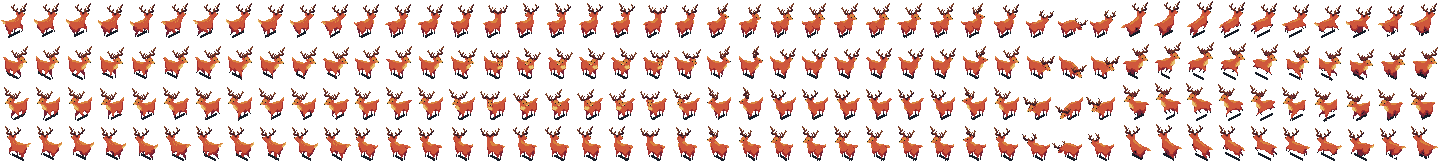
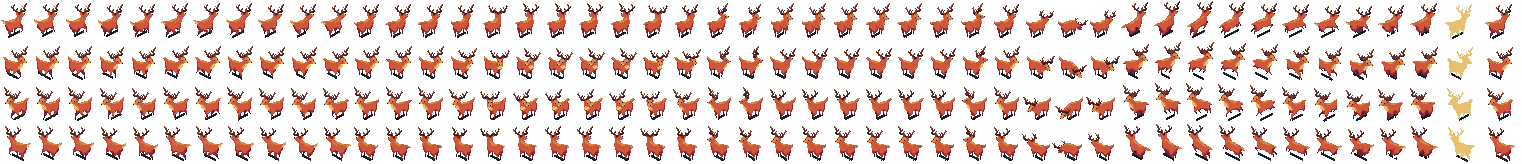
fix on collide behavior

diff --git a/main.js b/main.js
@@ -224,7 +224,6 @@ function randomlyPlaceCritter(a) {
   a.gx = randLandX;
   a.gy = randLandY;
   a.animTimer = 0;
-  a.poseTimer = 0;
   a.redecideCd = 0; // Cd = Cooldown (ticks)
   a.currentDirection = Math.floor(Math.random() * 4) * 2;
   a.frame = 0;
@@ -521,10 +520,7 @@ function updateAllCritters() {
     if (a.redecideCd <= 0) updateCritterAction(a);
 
     a.animTimer++;
-    a.poseTimer++;
     let holdTks = frameDataBySpeciesAndPose[a.species][a.pose].holdTks;
-    let poseLimitTks = frameDataBySpeciesAndPose[a.species][a.pose].limitTks;
-    if (poseLimitTks && a.poseTimer >= poseLimitTks)
       
     if (a.animTimer >= holdTks) updateCritterFrame(a);
 
@@ -582,38 +578,40 @@ function moveAllTogether(movers, statics = []) {
   collidePairs.forEach(pair => {
     // CURRENT: wolf KOs deer on any collide
     // FUTURE: kill only when wolf is in Bite pose and front-on
-    if (pair[0] === -1 || movers[pair[0]].species === movers[pair[1]].species) return;
-    if (movers[pair[1]].species === "deer") {
+    console.log(pair[1])
+    console.log(allColliders[pair[1]]);
+    if (pair[0] === -1 || allColliders[pair[0]].species === allColliders[pair[1]].species) return;
+    if (allColliders[pair[1]].species === "deer") {
       wasKilledBy[pair[1]] = pair[0];
     } else {
       wasKilledBy[pair[0]] = pair[1];
     }
   });
 
-  movers.forEach((mover, idx) => {
-    // for a stationary mover, do nothing
-    if (mover.nextGX === mover.gx && mover.nextGY === mover.gy) return;
+  allColliders.forEach((thing, idx) => {
+    // for a stationary thing, do nothing (??)
+    if (thing.nextGX === thing.gx && thing.nextGY === thing.gy) return;
 
     if (didCollide[idx]) {
       if (idx in wasKilledBy) {
-        startCritterDeath(movers[idx], wasKilledBy[idx]);
+        startCritterDeath(allColliders[idx], wasKilledBy[idx]);
       } else {
-        // this mover's gx and gy do NOT get updated this tick
+        // this thing's gx and gy do NOT get updated this tick
         // and it should decide on a new movement to try for next tick
 
         // TODO: allow a rear-ended collider to continue moving when space in front is open
         // this 'should' already be the behavior since creatures move all together, investigate
-        updateCritterAction(mover);
+        updateCritterAction(thing);
       }
     } else {
-      // this is the ONLY PLACE ANYWHERE that mover gx and gy should change!
-      mover.gx = mover.nextGX;
-      mover.gy = mover.nextGY;
-      if (mover === pcWolf) { // TODO: allow for detaching camera from wolf
+      // this is the ONLY PLACE ANYWHERE that thing gx and gy should change!
+      thing.gx = thing.nextGX;
+      thing.gy = thing.nextGY;
+      if (thing === pcWolf) { // TODO: allow for detaching camera from wolf
         animat?.setCameraToPCWolf();
       }
-      animat?.placeCritterSprite(mover);
-      applyFatigue(mover);
+      animat?.placeCritterSprite(thing);
+      applyFatigue(thing);
     }
   });
 }
@@ -906,24 +904,6 @@ function enactDecision(a, decision) {
         fleeY += fleeVec[1] * wt;
       });
       setCritterMoving(a, getDir(fleeX, fleeY));
-      break;
-    case "eat":
-      break;
-    case "mate":
-      break;
-    case "follow":
-      break;
-    case "drink":
-      break;
-    case "sleep":
-      break;
-    case "go": 
-      break;
-    case "seek":
-      break;
-    case "protect": 
-      break;
-    case "rest":
       break;
     default:
       return alert("unknown decision to enactDecision");
